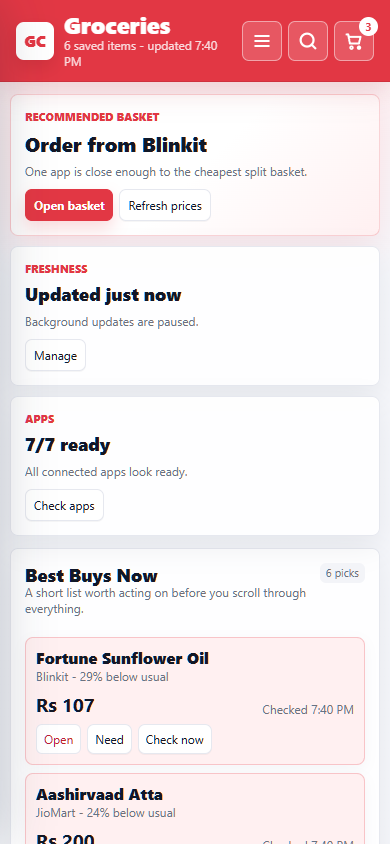
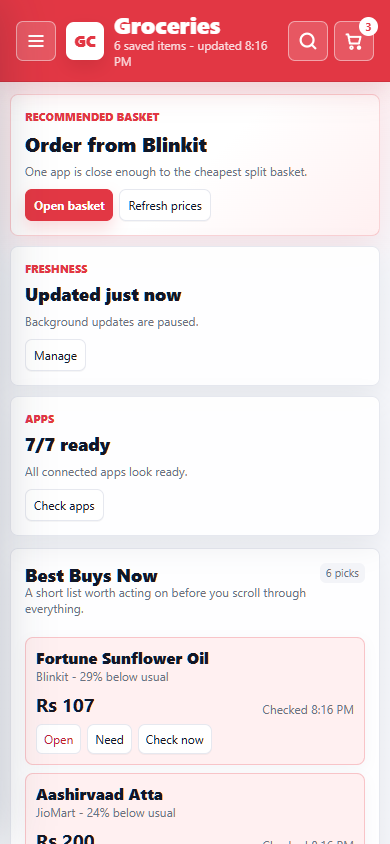
Route Amazon actions through Now handoff

Changed region(s): [[0.0308, 0.0, 0.7385, 0.0924], [0.8, 0.9858, 0.8615, 1.0], [0.8, 0.8318, 0.8615, 0.8626]]

diff --git a/grocery_cockpit.py b/grocery_cockpit.py
@@ -30,7 +30,7 @@ import provider_adapters
 
 
 APP_NAME = "Groceries"
-APP_VERSION = "0.15.3"
+APP_VERSION = "0.15.4"
 DEFAULT_PORT = 8877
 ACCESS_COOKIE = "grocery_cockpit_access"
 STATE_CACHE_SECONDS = 30
@@ -982,8 +982,8 @@ def search_url(
     return provider_adapters.build_search_url(provider, query)
 
 
-def amazon_now_open_url() -> str:
-    return "/amazon-now"
+def amazon_now_open_url(search_url: str = "") -> str:
+    return provider_adapters.amazon_now_handoff_url(search_url)
 
 
 def is_amazon_product_url(url: str | None) -> bool:
@@ -3354,7 +3354,8 @@ class GroceryHandler(http.server.BaseHTTPRequestHandler):
                 return
             headers = self.access_cookie_header(config) if set_cookie else {}
             headers["Cache-Control"] = "no-store"
-            self.send_html(render_amazon_now_handoff(), headers=headers)
+            query = urllib.parse.parse_qs(parsed.query).get("query", [""])[0]
+            self.send_html(render_amazon_now_handoff(query), headers=headers)
             return
         if parsed.path.startswith("/api/state"):
             if not authorized:
@@ -4297,10 +4298,13 @@ def render_locked_page() -> str:
 </html>"""
 
 
-def render_amazon_now_handoff() -> str:
+def render_amazon_now_handoff(query: str = "") -> str:
     app_url = "com.amazon.mobile.shopping://"
-    alt_app_url = "com.amazon.mobile.shopping.web://www.amazon.in/"
-    web_url = "https://www.amazon.in/"
+    query_note = (
+        f"<div class=\"query-box\"><span>Search inside Amazon Now</span><strong>{html.escape(query)}</strong></div>"
+        if query
+        else ""
+    )
     return f"""<!doctype html>
 <html lang="en">
 <head>
@@ -4362,19 +4366,28 @@ def render_amazon_now_handoff() -> str:
       color: #fff;
     }}
     .tiny {{ font-size: 12px; }}
+    .query-box {{
+      display: grid;
+      gap: 3px;
+      padding: 10px 12px;
+      border: 1px solid var(--line);
+      border-radius: 7px;
+      background: #fff7f3;
+      overflow-wrap: anywhere;
+    }}
+    .query-box span {{ color: var(--muted); font-size: 12px; }}
   </style>
 </head>
 <body>
   <main>
     <h1>Open Amazon Now</h1>
-    <p id="status">Amazon's old Now web route opens the wrong page, so this opens Amazon directly. Tap the lightning Now icon inside Amazon.</p>
+    <p id="status">Amazon does not provide a reliable Now product deep-link. This opens the Amazon app directly; tap the lightning Now icon inside Amazon.</p>
+    {query_note}
     <button class="primary" id="openApp" type="button">Open Amazon app</button>
-    <a href="{html.escape(web_url)}" id="webFallback">Open Amazon website</a>
     <a href="/" class="tiny">Back to Groceries</a>
   </main>
   <script>
     const appUrl = {json.dumps(app_url)};
-    const altAppUrl = {json.dumps(alt_app_url)};
     const statusNode = document.getElementById('status');
 
     function tryUrl(url) {{
@@ -4389,11 +4402,8 @@ def render_amazon_now_handoff() -> str:
       statusNode.textContent = 'Opening Amazon. If iOS asks, choose Open, then tap Now inside Amazon.';
       tryUrl(appUrl);
       window.setTimeout(() => {{
-        if (!document.hidden) tryUrl(altAppUrl);
-      }}, 900);
-      window.setTimeout(() => {{
         if (!document.hidden) {{
-          statusNode.textContent = 'The app did not take over. Use the Amazon website button below, then open Now inside Amazon.';
+          statusNode.textContent = 'The app did not take over. Tap Open Amazon app again, then tap Now inside Amazon.';
         }}
       }}, 1800);
     }}
@@ -4450,7 +4460,7 @@ def render_app() -> str:
     }
     header {
       display: grid;
-      grid-template-columns: minmax(0, 1fr) auto;
+      grid-template-columns: auto minmax(0, 1fr) auto;
       align-items: center;
       gap: 16px;
       padding: calc(12px + env(safe-area-inset-top)) clamp(16px, 4vw, 36px) 12px;
@@ -5614,7 +5624,7 @@ def render_app() -> str:
     }
     @media (max-width: 760px) {
       header {
-        grid-template-columns: minmax(0, 1fr) auto;
+        grid-template-columns: auto minmax(0, 1fr) auto;
         gap: 10px;
         align-items: center;
       }
@@ -5772,6 +5782,13 @@ def render_app() -> str:
 </head>
 <body>
   <header>
+    <button class="top-tool-button icon-only sidebar-toggle" id="sidebarOpenBtn" type="button" aria-label="Open menu" aria-expanded="false" aria-controls="appSidebar">
+      <svg viewBox="0 0 24 24" aria-hidden="true">
+        <path d="M4 6h16"></path>
+        <path d="M4 12h16"></path>
+        <path d="M4 18h16"></path>
+      </svg>
+    </button>
     <div class="brand-lockup">
       <div class="brand-mark">GC</div>
       <div class="brand-copy">
@@ -5780,13 +5797,6 @@ def render_app() -> str:
       </div>
     </div>
     <div class="top-icon-actions" aria-label="Quick tools">
-      <button class="top-tool-button icon-only sidebar-toggle" id="sidebarOpenBtn" type="button" aria-label="Open menu" aria-expanded="false" aria-controls="appSidebar">
-        <svg viewBox="0 0 24 24" aria-hidden="true">
-          <path d="M4 6h16"></path>
-          <path d="M4 12h16"></path>
-          <path d="M4 18h16"></path>
-        </svg>
-      </button>
       <button class="floating-search-button" id="floatingSearchBtn" type="button" aria-label="Search saved items" aria-expanded="false" aria-controls="floatingSearchPanel">
         <svg viewBox="0 0 24 24" aria-hidden="true">
           <circle cx="11" cy="11" r="7"></circle>
@@ -6059,7 +6069,7 @@ def render_app() -> str:
 
     function appOpenUrl(url) {
       if (!url) return url;
-      if (String(url).startsWith('/amazon-now')) return withAccessKey('/amazon-now');
+      if (String(url).startsWith('/amazon-now')) return withAccessKey(String(url));
       return url;
     }
 
@@ -6178,8 +6188,7 @@ def render_app() -> str:
     }
 
     function providerLinkLabel(providerId, openKind = '') {
-      if (providerId === 'amazon_fresh' && openKind === 'product') return 'Open product';
-      if (providerId === 'amazon_fresh') return 'Search Now';
+      if (providerId === 'amazon_fresh') return 'Open Now';
       if (openKind === 'now') return 'Open Now';
       return openKind === 'product' ? 'Open' : 'Search';
     }

diff --git a/provider_adapters.py b/provider_adapters.py
@@ -55,7 +55,7 @@ ADAPTERS = (
         kind="marketplace-grocery",
         status="browser-ready",
         search_url="https://www.amazon.in/s?k={query}&i=nowstore&almBrandId=ctnow&fpw=alm",
-        open_strategy="amazon_product_or_search",
+        open_strategy="amazon_now_handoff",
         auto_scan_timeout_seconds=360,
         focused_scan_timeout_seconds=360,
     ),
@@ -133,15 +133,25 @@ def is_amazon_product_url(url: str | None) -> bool:
     )
 
 
+def amazon_now_handoff_url(search_url: str = "") -> str:
+    query = ""
+    if search_url:
+        try:
+            query = urllib.parse.parse_qs(urllib.parse.urlparse(search_url).query).get("k", [""])[0]
+        except ValueError:
+            query = ""
+    if query:
+        return f"/amazon-now?query={urllib.parse.quote_plus(query)}"
+    return "/amazon-now"
+
+
 def choose_open_url(provider_id: str, product_url: str | None, fallback_search_url: str) -> tuple[str, str]:
     adapter = ADAPTERS_BY_ID.get(provider_id)
     strategy = adapter.open_strategy if adapter else "product_or_search"
     if strategy == "search_only":
         return fallback_search_url, "search"
-    if strategy == "amazon_product_or_search":
-        if is_amazon_product_url(product_url):
-            return str(product_url), "product"
-        return fallback_search_url, "search"
+    if strategy == "amazon_now_handoff":
+        return amazon_now_handoff_url(fallback_search_url), "now"
     if product_url:
         return str(product_url), "product"
     return fallback_search_url, "search"

diff --git a/tests/test_provider_adapters.py b/tests/test_provider_adapters.py
@@ -61,11 +61,10 @@ class ProviderAdapterContractTests(unittest.TestCase):
         amazon_product = "https://www.amazon.in/example/dp/B012345678"
 
         self.assertEqual(adapters.choose_open_url("jiomart", product, fallback), (fallback, "search"))
-        self.assertEqual(
-            adapters.choose_open_url("amazon_fresh", amazon_product, fallback),
-            (amazon_product, "product"),
-        )
-        self.assertEqual(adapters.choose_open_url("amazon_fresh", product, fallback), (fallback, "search"))
+        amazon_search = "https://www.amazon.in/s?k=paneer&i=nowstore&almBrandId=ctnow&fpw=alm"
+        expected_amazon_handoff = ("/amazon-now?query=paneer", "now")
+        self.assertEqual(adapters.choose_open_url("amazon_fresh", amazon_product, amazon_search), expected_amazon_handoff)
+        self.assertEqual(adapters.choose_open_url("amazon_fresh", product, amazon_search), expected_amazon_handoff)
         for provider_id in {"zepto", "blinkit", "swiggy_instamart", "dmart", "bigbasket"}:
             with self.subTest(provider=provider_id):
                 self.assertEqual(adapters.choose_open_url(provider_id, product, fallback), (product, "product"))

diff --git a/tests/test_core.py b/tests/test_core.py
@@ -25,12 +25,13 @@ class CorePricingTests(unittest.TestCase):
         self.assertEqual(g.pack_from_text("Coca-Cola Zero Sugar 750ml bottle"), (750.0, "ml"))
         self.assertEqual(g.pack_from_text("Value pack 2 x 500 g"), (1000.0, "g"))
 
-    def test_amazon_product_urls_open_as_products(self):
+    def test_amazon_links_use_now_handoff_instead_of_fresh_web_routes(self):
         fallback = "https://www.amazon.in/s?k=potato&i=nowstore&almBrandId=ctnow&fpw=alm"
         product = "https://www.amazon.in/Fresh-Potato-1kg-Pack/dp/B07BG5GZP2/ref=sr_1_1"
 
-        self.assertEqual(g.open_url_for_provider("amazon_fresh", product, fallback), (product, "product"))
-        self.assertEqual(g.open_url_for_provider("amazon_fresh", "", fallback), (fallback, "search"))
+        expected = ("/amazon-now?query=potato", "now")
+        self.assertEqual(g.open_url_for_provider("amazon_fresh", product, fallback), expected)
+        self.assertEqual(g.open_url_for_provider("amazon_fresh", "", fallback), expected)
 
 
 class CoreMatchingTests(unittest.TestCase):

diff --git a/CHANGELOG.md b/CHANGELOG.md
@@ -1,5 +1,10 @@
 # Changelog
 
+## 0.15.4 - Amazon Now Handoff
+
+- Routed every Amazon action through the Amazon Now app handoff instead of Fresh web routes.
+- Moved the menu button to the far left of the header.
+
 ## 0.15.3 - Item Controls
 
 - Added compact individual dismiss controls to deal alerts.